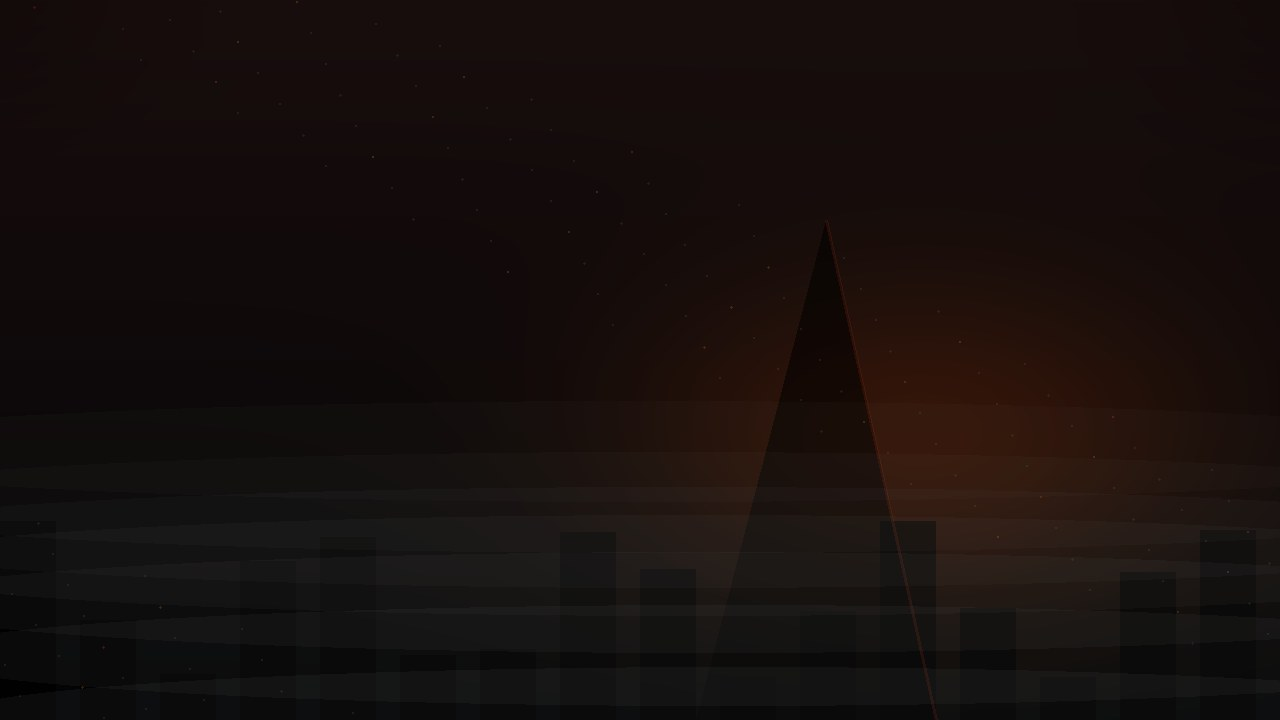
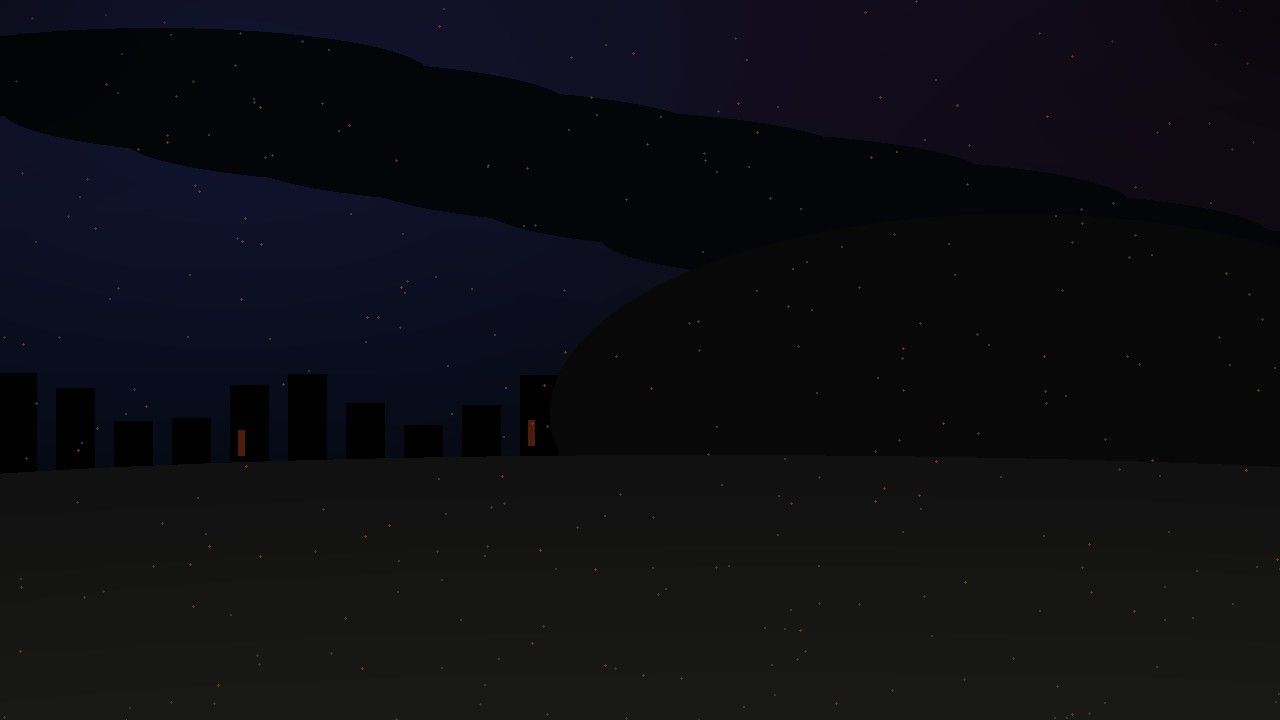
feat: deepen cinematic hero art direction

diff --git a/apps/web/src/components/CinematicHero.tsx b/apps/web/src/components/CinematicHero.tsx
@@ -135,149 +135,203 @@ export function CinematicHero() {
   }, [narrationState, soundEnabled]);
 
   return (
-    <section ref={heroRef} className="relative min-h-[100svh] overflow-hidden bg-[#030405] text-stone-100">
-      <video
-        ref={videoRef}
-        className="absolute inset-0 h-full w-full scale-105 object-cover opacity-70 saturate-[0.82]"
-        autoPlay={!reduceMotion}
-        muted
-        loop
-        playsInline
-        preload="metadata"
-        poster="/assets/cinematic/temporary-cinematic-poster-noncanonical.jpg"
-        aria-hidden
-      >
-        <source src="/assets/cinematic/temporary-cinematic-loop-noncanonical.mp4" type="video/mp4" />
-      </video>
-      {reduceMotion && <div aria-hidden className="absolute inset-0 bg-[url('/assets/cinematic/temporary-cinematic-poster-noncanonical.jpg')] bg-cover bg-center" />}
-      <audio ref={ambientRef} src="/assets/audio/temporary-ambient-loop-noncanonical.webm" loop preload="none" />
-      <audio
-        ref={narrationRef}
-        src="/assets/audio/temporary-narration-noncanonical.mp3"
-        preload="none"
-        onEnded={() => setNarrationState('complete')}
-      />
+    <>
+      <section ref={heroRef} className="relative min-h-[100svh] overflow-hidden bg-[#030405] text-stone-100">
+        <video
+          ref={videoRef}
+          className="absolute inset-0 h-full w-full scale-[1.08] object-cover opacity-78 saturate-[0.74] contrast-[1.08]"
+          autoPlay={!reduceMotion}
+          muted
+          loop
+          playsInline
+          preload="metadata"
+          poster="/assets/cinematic/temporary-cinematic-poster-noncanonical.jpg"
+          aria-hidden
+        >
+          <source src="/assets/cinematic/temporary-cinematic-loop-noncanonical.mp4" type="video/mp4" />
+        </video>
+        {reduceMotion && <div aria-hidden className="absolute inset-0 bg-[url('/assets/cinematic/temporary-cinematic-poster-noncanonical.jpg')] bg-cover bg-center" />}
+        <audio ref={ambientRef} src="/assets/audio/temporary-ambient-loop-noncanonical.webm" loop preload="none" />
+        <audio
+          ref={narrationRef}
+          src="/assets/audio/temporary-narration-noncanonical.mp3"
+          preload="none"
+          onEnded={() => setNarrationState('complete')}
+        />
 
-      {sceneActive && (
-        <SceneBoundary fallback={null}>
-          <Suspense fallback={null}>
-            <EnvironmentalScene active={sceneActive} reducedDetail={isMobile} />
-          </Suspense>
-        </SceneBoundary>
-      )}
+        {sceneActive && (
+          <SceneBoundary fallback={null}>
+            <Suspense fallback={null}>
+              <EnvironmentalScene active={sceneActive} reducedDetail={isMobile} />
+            </Suspense>
+          </SceneBoundary>
+        )}
 
-      <div aria-hidden className="absolute inset-0 bg-[radial-gradient(circle_at_68%_42%,rgba(255,74,28,0.22),transparent_26%),linear-gradient(90deg,rgba(3,4,5,0.96)_0%,rgba(3,4,5,0.82)_35%,rgba(3,4,5,0.38)_66%,rgba(3,4,5,0.74)_100%)]" />
-      <div aria-hidden className="absolute inset-x-0 bottom-0 h-56 bg-gradient-to-t from-black via-black/70 to-transparent" />
-      <div aria-hidden className="absolute inset-x-0 top-0 h-40 bg-gradient-to-b from-black/85 to-transparent" />
+        <div aria-hidden className="absolute inset-0 bg-[radial-gradient(circle_at_77%_64%,rgba(255,73,24,0.22),transparent_22%),radial-gradient(circle_at_18%_18%,rgba(38,74,104,0.22),transparent_30%),linear-gradient(90deg,rgba(3,4,5,0.98)_0%,rgba(3,4,5,0.78)_31%,rgba(3,4,5,0.22)_61%,rgba(3,4,5,0.84)_100%)]" />
+        <div aria-hidden className="absolute inset-x-0 bottom-0 h-64 bg-gradient-to-t from-black via-black/78 to-transparent" />
+        <div aria-hidden className="absolute inset-x-0 top-0 h-48 bg-gradient-to-b from-black/90 via-black/40 to-transparent" />
 
-      <motion.div
-        aria-hidden
-        className="absolute inset-0 opacity-40 mix-blend-screen"
-        animate={sceneActive ? { x: [0, -18, 0], y: [0, 10, 0] } : undefined}
-        transition={{ duration: 14, repeat: Infinity, ease: 'easeInOut' }}
-        style={{ background: 'radial-gradient(circle at 72% 52%, rgba(255,110,45,.24), transparent 18%), radial-gradient(circle at 58% 65%, rgba(160,160,150,.11), transparent 24%)' }}
-      />
+        <motion.div
+          aria-hidden
+          className="absolute inset-0 opacity-50 mix-blend-screen"
+          animate={sceneActive ? { x: [0, -10, 0], y: [0, 8, 0], opacity: [0.32, 0.54, 0.32] } : undefined}
+          transition={{ duration: 17, repeat: Infinity, ease: 'easeInOut' }}
+          style={{ background: 'radial-gradient(circle at 74% 68%, rgba(255,93,31,.22), transparent 19%), radial-gradient(circle at 28% 48%, rgba(91,119,137,.13), transparent 28%)' }}
+        />
 
-      <main className="relative z-10 grid min-h-[100svh] grid-rows-[1fr_auto] px-5 py-6 sm:px-8 lg:px-12">
-        <div className="mx-auto grid w-full max-w-7xl items-center gap-8 pt-12 md:grid-cols-[minmax(0,0.92fr)_minmax(320px,1.08fr)] md:pt-0">
-          <motion.div
-            className="max-w-2xl"
-            initial={reduceMotion ? false : { opacity: 0, y: 28 }}
-            animate={reduceMotion ? undefined : { opacity: 1, y: 0 }}
-            transition={{ duration: 0.9, ease: [0.16, 1, 0.3, 1] }}
-          >
-            <Image
-              src="/assets/branding/the-infected-logo.png"
-              alt="The Infected official logo"
-              width={1024}
-              height={1024}
-              priority
-              className="mb-5 h-auto w-36 drop-shadow-[0_0_45px_rgba(255,74,28,0.42)] sm:w-44 lg:w-52"
-            />
-            <p className="mb-4 text-xs font-semibold uppercase tracking-[0.36em] text-orange-200/80 sm:text-sm">
-              Cinematic Android survival
-            </p>
-            <h1 className="text-balance text-4xl font-black uppercase leading-[0.9] tracking-[-0.05em] text-white sm:text-6xl lg:text-7xl xl:text-8xl">
-              Outlast the silence after the fall.
-            </h1>
-            <p className="mt-6 max-w-xl text-pretty text-base leading-7 text-stone-300 sm:text-lg lg:text-xl lg:leading-8">
-              A premium reveal for The Infected, built as the first reusable production surface for the Android game universe.
-            </p>
-            <div className="mt-9 flex flex-col gap-4 sm:flex-row sm:items-center">
-              <button
-                type="button"
-                onClick={() => {
-                  setSignupOpen(true);
-                  setSignupStatus('idle');
-                }}
-                className="inline-flex min-h-12 items-center justify-center rounded-full bg-orange-500 px-7 py-4 text-sm font-black uppercase tracking-[0.18em] text-black shadow-[0_0_70px_rgba(255,74,28,.28)] transition hover:scale-[1.02] hover:bg-orange-400 focus:outline-none focus:ring-2 focus:ring-orange-200"
+        <main className="relative z-10 grid min-h-[100svh] grid-rows-[1fr_auto] px-5 py-6 sm:px-8 lg:px-12">
+          <div className="mx-auto grid w-full max-w-7xl items-center gap-6 pt-12 md:grid-cols-[minmax(0,0.82fr)_minmax(360px,1.18fr)] md:pt-0">
+            <motion.div
+              className="max-w-xl"
+              initial={reduceMotion ? false : { opacity: 0, y: 28 }}
+              animate={reduceMotion ? undefined : { opacity: 1, y: 0 }}
+              transition={{ duration: 1.15, delay: 0.35, ease: [0.16, 1, 0.3, 1] }}
+            >
+              <motion.div
+                initial={reduceMotion ? false : { opacity: 0, filter: 'blur(10px)', scale: 0.96 }}
+                animate={reduceMotion ? undefined : { opacity: 1, filter: 'blur(0px)', scale: 1 }}
+                transition={{ duration: 1.45, delay: 0.1, ease: 'easeOut' }}
+                className="relative mb-6 w-40 sm:w-48 lg:w-60"
               >
-                Join the Survivors
-              </button>
-              <button
-                type="button"
-                onClick={toggleSound}
-                className="inline-flex min-h-12 items-center justify-center rounded-full border border-white/18 bg-white/8 px-7 py-4 text-sm font-bold uppercase tracking-[0.18em] text-white backdrop-blur transition hover:bg-white/14 focus:outline-none focus:ring-2 focus:ring-white/50"
-                aria-pressed={soundEnabled}
-                aria-describedby="audio-status narration-caption"
+                <div aria-hidden className="absolute -inset-8 rounded-full bg-orange-500/18 blur-3xl" />
+                <Image
+                  src="/assets/branding/the-infected-logo.png"
+                  alt="The Infected official logo"
+                  width={1024}
+                  height={1024}
+                  priority
+                  className="relative h-auto w-full drop-shadow-[0_0_55px_rgba(255,74,28,0.55)]"
+                />
+              </motion.div>
+
+              <motion.p
+                className="mb-4 text-[0.68rem] font-semibold uppercase tracking-[0.42em] text-orange-100/75 sm:text-xs"
+                initial={reduceMotion ? false : { opacity: 0 }}
+                animate={reduceMotion ? undefined : { opacity: 1 }}
+                transition={{ duration: 0.8, delay: 1.0 }}
               >
-                {soundEnabled ? 'Mute' : 'Enter with Sound'}
-              </button>
+                Enter the quarantine zone
+              </motion.p>
+
+              <motion.h1
+                className="max-w-[11ch] text-balance text-5xl font-black uppercase leading-[0.82] tracking-[-0.075em] text-white sm:text-7xl lg:text-8xl"
+                initial={reduceMotion ? false : { opacity: 0, y: 18 }}
+                animate={reduceMotion ? undefined : { opacity: 1, y: 0 }}
+                transition={{ duration: 1, delay: 1.22, ease: [0.16, 1, 0.3, 1] }}
+              >
+                The silence...
+                <span className="block text-orange-100">was only</span>
+                <span className="block">the beginning.</span>
+              </motion.h1>
+
+              <motion.p
+                className="mt-6 max-w-md text-pretty text-base leading-7 text-stone-300/88 sm:text-lg"
+                initial={reduceMotion ? false : { opacity: 0, y: 14 }}
+                animate={reduceMotion ? undefined : { opacity: 1, y: 0 }}
+                transition={{ duration: 0.8, delay: 1.85 }}
+              >
+                A broken city. One signal left. Survive long enough to answer it.
+              </motion.p>
+
+              <motion.div
+                className="mt-9 flex flex-col gap-4 sm:flex-row sm:items-center"
+                initial={reduceMotion ? false : { opacity: 0, y: 12 }}
+                animate={reduceMotion ? undefined : { opacity: 1, y: 0 }}
+                transition={{ duration: 0.75, delay: 2.25 }}
+              >
+                <button
+                  type="button"
+                  onClick={() => {
+                    setSignupOpen(true);
+                    setSignupStatus('idle');
+                  }}
+                  className="inline-flex min-h-12 items-center justify-center rounded-full bg-orange-500 px-7 py-4 text-sm font-black uppercase tracking-[0.18em] text-black shadow-[0_0_70px_rgba(255,74,28,.28)] transition hover:scale-[1.02] hover:bg-orange-400 focus:outline-none focus:ring-2 focus:ring-orange-200"
+                >
+                  Join the Survivors
+                </button>
+                <button
+                  type="button"
+                  onClick={toggleSound}
+                  className="inline-flex min-h-12 items-center justify-center rounded-full border border-white/18 bg-black/35 px-7 py-4 text-sm font-bold uppercase tracking-[0.18em] text-white backdrop-blur transition hover:bg-white/14 focus:outline-none focus:ring-2 focus:ring-white/50"
+                  aria-pressed={soundEnabled}
+                  aria-describedby="audio-status narration-caption"
+                >
+                  {soundEnabled ? 'Mute' : 'Enter with Sound'}
+                </button>
+              </motion.div>
+
+              <p className="mt-5 text-xs uppercase tracking-[0.32em] text-stone-400">Coming Soon to Android</p>
+              <p id="narration-caption" className="mt-4 max-w-xl rounded-2xl border border-white/10 bg-black/34 p-4 text-sm leading-6 text-stone-300/90 backdrop-blur">
+                <span className="font-semibold text-orange-200">Caption:</span> {narrationText}
+              </p>
+            </motion.div>
+
+            <div className="relative min-h-[34svh] md:min-h-[70svh]" aria-hidden>
+              <motion.div
+                className="absolute bottom-[18%] right-[28%] h-72 w-24 -skew-x-3 rounded-[48%] bg-black/45 shadow-[0_0_80px_rgba(255,74,28,.12)] blur-[1px] sm:h-[26rem] sm:w-32"
+                animate={sceneActive ? { x: [0, 5, 0], opacity: [0.34, 0.48, 0.34] } : undefined}
+                transition={{ duration: 8, repeat: Infinity, ease: 'easeInOut' }}
+              />
+              <motion.div
+                className="absolute bottom-[22%] right-[14%] h-48 w-12 -skew-x-6 rounded-[48%] bg-black/40 blur-[1px] sm:h-64 sm:w-16"
+                animate={sceneActive ? { y: [0, -4, 0], opacity: [0.22, 0.38, 0.22] } : undefined}
+                transition={{ duration: 7.5, repeat: Infinity, ease: 'easeInOut' }}
+              />
+              <div className="absolute bottom-[10%] right-[2%] h-56 w-56 rounded-full bg-orange-500/18 blur-3xl sm:h-96 sm:w-96" />
             </div>
-            <p className="mt-5 text-sm uppercase tracking-[0.26em] text-stone-400">Coming Soon to Android</p>
-            <p id="narration-caption" className="mt-4 max-w-xl rounded-2xl border border-white/10 bg-black/30 p-4 text-sm leading-6 text-stone-300 backdrop-blur">
-              <span className="font-semibold text-orange-200">Caption:</span> {narrationText}
-            </p>
-          </motion.div>
+          </div>
 
-          <motion.div
-            className="relative min-h-[34svh] md:min-h-[70svh]"
-            initial={reduceMotion ? false : { opacity: 0, scale: 0.98 }}
-            animate={reduceMotion ? undefined : { opacity: 1, scale: 1 }}
-            transition={{ duration: 1.1, delay: 0.2, ease: [0.16, 1, 0.3, 1] }}
-            aria-hidden
-          >
-            <div className="absolute bottom-[12%] right-[8%] h-48 w-48 rounded-full bg-orange-500/20 blur-3xl sm:h-80 sm:w-80" />
-            <div className="absolute bottom-[16%] right-[16%] h-72 w-28 -skew-x-6 rounded-[50%] border border-orange-200/10 bg-black/22 shadow-[0_0_90px_rgba(255,74,28,.18)] backdrop-blur-[2px] sm:h-96 sm:w-36" />
-          </motion.div>
-        </div>
+          <div className="relative mx-auto flex w-full max-w-7xl flex-col gap-3 border-t border-white/10 pb-2 pt-4 text-xs uppercase tracking-[0.22em] text-stone-400 sm:flex-row sm:items-center sm:justify-between">
+            <span>Descend into the city</span>
+            <span id="audio-status" role="status" aria-live="polite">{audioStatus}</span>
+            <span>Android reveal in production</span>
+          </div>
+        </main>
 
-        <div className="relative mx-auto flex w-full max-w-7xl flex-col gap-3 border-t border-white/10 pb-2 pt-4 text-xs uppercase tracking-[0.22em] text-stone-400 sm:flex-row sm:items-center sm:justify-between">
-          <span>Scroll to enter the outbreak</span>
-          <span id="audio-status" role="status" aria-live="polite">{audioStatus}</span>
-          <span>Android reveal in production</span>
-        </div>
-      </main>
+        {signupOpen && (
+          <div className="fixed inset-0 z-50 grid place-items-center bg-black/78 p-5 backdrop-blur-md" role="dialog" aria-modal="true" aria-labelledby="signup-title">
+            <form
+              className="w-full max-w-md rounded-3xl border border-white/12 bg-[#0b0b0a] p-6 shadow-2xl"
+              onSubmit={(event) => {
+                event.preventDefault();
+                submitSignup(new FormData(event.currentTarget));
+              }}
+            >
+              <h2 id="signup-title" className="text-2xl font-black uppercase tracking-[-0.04em] text-white">Join the Survivors</h2>
+              <p className="mt-3 text-sm leading-6 text-stone-300">Enter an email to reserve early access updates. Prototype only; Supabase submission follows after review.</p>
+              <label className="mt-5 block text-xs font-bold uppercase tracking-[0.2em] text-stone-400" htmlFor="survivor-email">Email</label>
+              <input
+                id="survivor-email"
+                name="email"
+                type="email"
+                required
+                placeholder="[email redacted]"
+                className="mt-2 min-h-12 w-full rounded-2xl border border-white/14 bg-white/8 px-4 text-white outline-none focus:ring-2 focus:ring-orange-300"
+              />
+              {signupStatus === 'success' && <p className="mt-4 text-sm text-orange-200" role="status">You are on the early-access prototype list.</p>}
+              {signupStatus === 'error' && <p className="mt-4 text-sm text-red-300" role="alert">Enter a valid email address.</p>}
+              <div className="mt-6 flex flex-col gap-3 sm:flex-row">
+                <button type="submit" className="min-h-11 rounded-full bg-orange-500 px-5 text-sm font-black uppercase tracking-[0.16em] text-black">Submit</button>
+                <button type="button" onClick={() => setSignupOpen(false)} className="min-h-11 rounded-full border border-white/14 px-5 text-sm font-bold uppercase tracking-[0.16em] text-white">Close</button>
+              </div>
+            </form>
+          </div>
+        )}
+      </section>
 
-      {signupOpen && (
-        <div className="fixed inset-0 z-50 grid place-items-center bg-black/78 p-5 backdrop-blur-md" role="dialog" aria-modal="true" aria-labelledby="signup-title">
-          <form
-            className="w-full max-w-md rounded-3xl border border-white/12 bg-[#0b0b0a] p-6 shadow-2xl"
-            onSubmit={(event) => {
-              event.preventDefault();
-              submitSignup(new FormData(event.currentTarget));
-            }}
-          >
-            <h2 id="signup-title" className="text-2xl font-black uppercase tracking-[-0.04em] text-white">Join the Survivors</h2>
-            <p className="mt-3 text-sm leading-6 text-stone-300">Enter an email to reserve early access updates. Prototype only; Supabase submission follows after review.</p>
-            <label className="mt-5 block text-xs font-bold uppercase tracking-[0.2em] text-stone-400" htmlFor="survivor-email">Email</label>
-            <input
-              id="survivor-email"
-              name="email"
-              type="email"
-              required
-              placeholder="[email redacted]"
-              className="mt-2 min-h-12 w-full rounded-2xl border border-white/14 bg-white/8 px-4 text-white outline-none focus:ring-2 focus:ring-orange-300"
-            />
-            {signupStatus === 'success' && <p className="mt-4 text-sm text-orange-200" role="status">You are on the early-access prototype list.</p>}
-            {signupStatus === 'error' && <p className="mt-4 text-sm text-red-300" role="alert">Enter a valid email address.</p>}
-            <div className="mt-6 flex flex-col gap-3 sm:flex-row">
-              <button type="submit" className="min-h-11 rounded-full bg-orange-500 px-5 text-sm font-black uppercase tracking-[0.16em] text-black">Submit</button>
-              <button type="button" onClick={() => setSignupOpen(false)} className="min-h-11 rounded-full border border-white/14 px-5 text-sm font-bold uppercase tracking-[0.16em] text-white">Close</button>
-            </div>
-          </form>
+      <section className="relative overflow-hidden bg-black px-5 py-28 text-stone-200 sm:px-8 lg:px-12">
+        <div aria-hidden className="absolute inset-x-0 top-0 h-48 bg-gradient-to-b from-black via-[#080403] to-transparent" />
+        <div aria-hidden className="absolute left-1/2 top-10 h-96 w-[46rem] -translate-x-1/2 rounded-full bg-orange-950/20 blur-3xl" />
+        <div className="relative mx-auto max-w-4xl border-l border-orange-200/18 pl-6">
+          <p className="text-xs uppercase tracking-[0.42em] text-orange-100/60">Below the smoke</p>
+          <h2 className="mt-5 max-w-2xl text-4xl font-black uppercase leading-none tracking-[-0.06em] text-white sm:text-6xl">
+            Every street remembers what happened.
+          </h2>
+          <p className="mt-6 max-w-xl text-lg leading-8 text-stone-400">
+            The next section will descend into the world: checkpoints, survivor traces, lost broadcasts, and the systems that shape the Android game.
+          </p>
         </div>
-      )}
-    </section>
+      </section>
+    </>
   );
 }